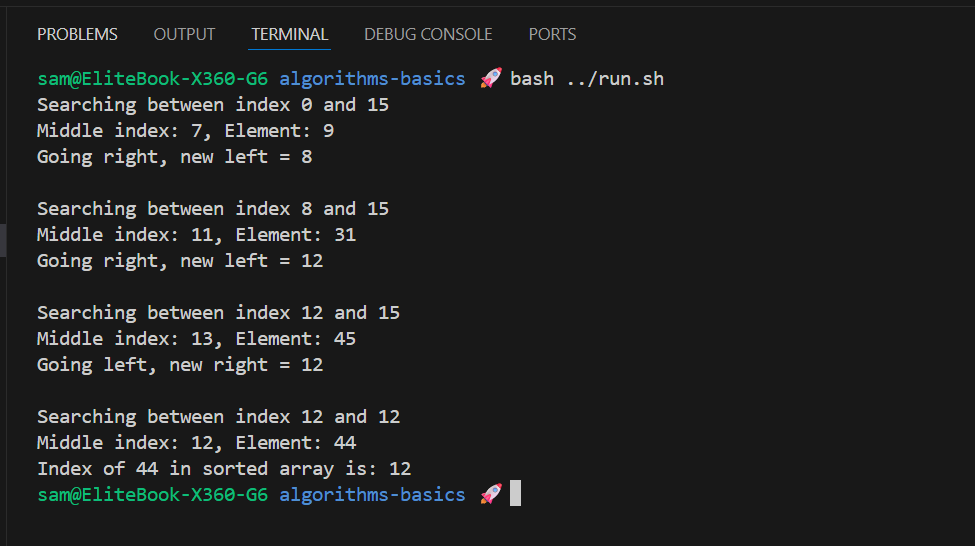
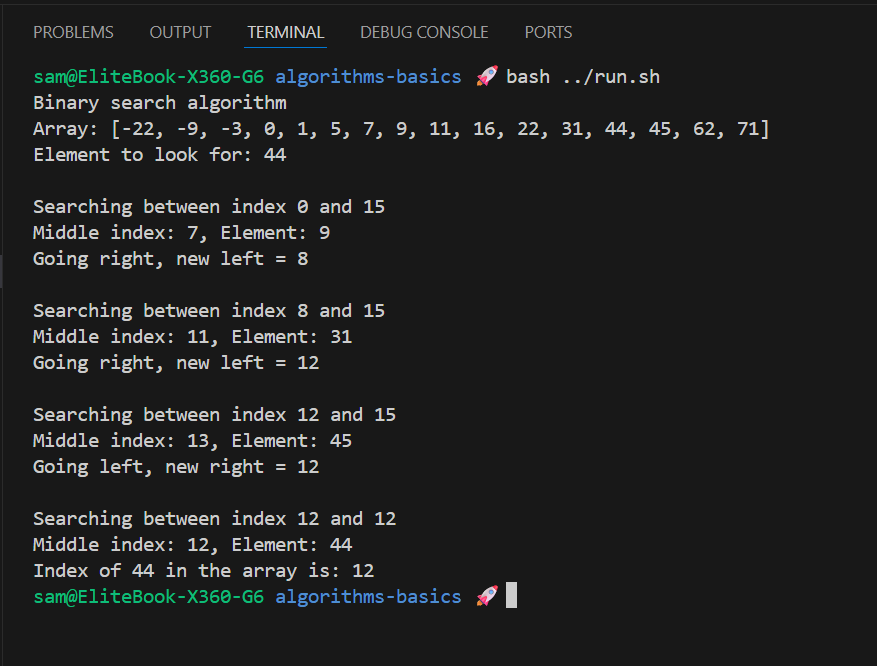
added  prints for better response

Changed region(s): [[0.0, 0.0311, 0.8928, 0.7161], [0.0308, 0.7473, 0.6157, 0.9341]]

diff --git a/algorithms-basics/BinarySearch.java b/algorithms-basics/BinarySearch.java
@@ -1,7 +1,13 @@
+import java.util.Arrays;
+
 public class BinarySearch {
     public static int getElement(int[] array, int element) {
         // sort array in ascending order
         Sorter.sort(array);
+
+        System.out.println("Array: " + Arrays.toString(array));
+        System.out.println("Element to look for: " + element);
+        System.out.println();
 
         int left = 0; // Start of search range
         int right = array.length - 1; // End of search range

diff --git a/algorithms-basics/Program.java b/algorithms-basics/Program.java
@@ -1,8 +1,9 @@
 public class Program {
     public static void main(String[] args) {
+        System.out.println("Binary search algorithm");
         int[] numbers = { 16, -3, 45, 0, 71, 9, -22, 31, 5, 62, -9, 11, 22, 1, 44, 7 };
         int index = BinarySearch.getElement(numbers, 44);
-        System.out.println("Index of " + 44 + " in sorted array is: " + index);
+        System.out.println("Index of " + 44 + " in the array is: " + index);
     }
 
 }
